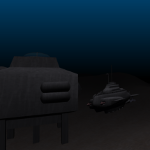
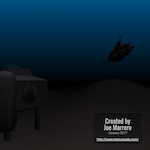
Added web-gfx (WebGL) project.

diff --git a/README.md b/README.md
@@ -1,4 +1,4 @@
-# About Me
+# About myself
 I began experimenting with software on an old IBM PS/2 with an Intel 286 CPU when I was 9 years old.  Then in 1996, at
 only twelve years old, I began to write software using QBasic and Visual Basic.  It was around this time, when I
 discovered my affinity for learning, solving puzzles, and creating computer programs.
@@ -6,31 +6,9 @@ discovered my affinity for learning, solving puzzles, and creating computer prog
 I have a strong background in mathematics and computer science.  My professional career has given me opportunities to work on massive cloud
 web applications, mobile applications, computer graphics software, and AAA titles in the game industry.
 
-# A Few of my Projects
-[![Timezoner](https://user-images.githubusercontent.com/2350387/87860663-42299280-c90d-11ea-9452-5a62e52536e2.png)](https://github.com/manvscode/timezoner)
-[![Sub on the Ocean Floor WebGL](https://user-images.githubusercontent.com/2350387/87860764-1529af80-c90e-11ea-9674-c548f4dc3ac0.png)](https://github.com/manvscode/#todo)
-[![libcollections](https://user-images.githubusercontent.com/2350387/87860689-73a25e00-c90d-11ea-9933-7689f0440747.png)](https://github.com/manvscode/libcollections)
-[![libxtd](https://user-images.githubusercontent.com/2350387/87860705-9896d100-c90d-11ea-932a-c0c096ee4f6c.png)](https://github.com/manvscode/libxtd)
-[![libsimplegl](https://user-images.githubusercontent.com/2350387/87866633-28f70500-c952-11ea-94c9-5fb00a899178.png)](https://github.com/manvscode/libsimplegl)
-[![Blue Scanner](https://user-images.githubusercontent.com/2350387/87860632-efe87180-c90c-11ea-80b8-a86ddfb3b1c8.png)](https://github.com/manvscode/blue-scanner)
-[![libcsearch](https://user-images.githubusercontent.com/2350387/87866658-6eb3cd80-c952-11ea-9f30-850d28c94492.jpg)](https://github.com/manvscode/libcsearch)
-[![libterrain](https://user-images.githubusercontent.com/2350387/87866804-ef26fe00-c953-11ea-9988-cad990f30a06.jpg)](https://github.com/manvscode/libterrain)
-[![libm3d](https://user-images.githubusercontent.com/2350387/87866848-6bb9dc80-c954-11ea-8241-68e162a3032b.png)](https://github.com/manvscode/libm3d)
-[![Escape the Hangman](https://user-images.githubusercontent.com/2350387/87860739-e6abd480-c90d-11ea-95a7-6221f9910bc3.png)](https://github.com/manvscode/hangman)
-[![name.com Dynamic DNS](https://user-images.githubusercontent.com/2350387/87860706-9a609480-c90d-11ea-9758-36d195e1bdee.png)](https://github.com/manvscode/name.com-dns-tools)
-[![Game of Life](https://user-images.githubusercontent.com/2350387/87860752-017e4900-c90e-11ea-90e7-b21557989411.png)](https://github.com/manvscode/game-of-life)
-[![Host This](https://user-images.githubusercontent.com/2350387/87866748-509a9d00-c953-11ea-99ba-a313808a0f91.png)](https://github.com/manvscode/host-this)
-[![obj2js](https://user-images.githubusercontent.com/2350387/87860710-9cc2ee80-c90d-11ea-80c8-cf9a9216d4dc.png)](https://github.com/manvscode/obj2js)
-[![iifym](https://user-images.githubusercontent.com/2350387/87866741-3bbe0980-c953-11ea-87d8-cd008c7d8186.png)](https://github.com/manvscode/iifym)
+My resume is available [here](https://joemarrero.com/resume).
 
-<!--
-[![Timezoner](/projects/timezoner-150x150.png)](https://github.com/manvscode/timezoner)
-[![libcollections](/projects/libcollections-150x150.png)](https://github.com/manvscode/libcollections)
-[![libxtd](/projects/libxtd-150x150.png)](https://github.com/manvscode/libxtd)
-[![Blue Scanner](/projects/blue-scanner-150x150.png)](https://github.com/manvscode/blue-scanner)
-[![Escape the Hangman](/projects/hangman-150x150.png)](https://github.com/manvscode/hangman)
-[![name.com Dynamic DNS](/projects/name.com-dynamic-dns-150x150.png)](https://github.com/manvscode/name.com-dns-tools)
-[![Game of Life](/projects/game-of-life-150x150.png)](https://github.com/manvscode/game-of-life)
-[![obj2js](/projects/obj2js-150x150.png)](https://github.com/manvscode/obj2js)
-[![Sub on the Ocean Floor WebGL](/projects/sub-on-the-ocean-floor-webgl-150x150.png)](https://github.com/manvscode/#todo)
--->
+# A few of my projects
+[![Timezoner](https://user-images.githubusercontent.com/2350387/87860663-42299280-c90d-11ea-9452-5a62e52536e2.png)](https://github.com/manvscode/timezoner)[![Sub on the Ocean Floor (WebGL)](https://user-images.githubusercontent.com/2350387/166626965-54a84d8a-b8d0-4457-ad98-c55572f4ecf0.png)](https://github.com/manvscode/web-gfx)[![libcollections](https://user-images.githubusercontent.com/2350387/87860689-73a25e00-c90d-11ea-9933-7689f0440747.png)](https://github.com/manvscode/libcollections)[![libxtd](https://user-images.githubusercontent.com/2350387/87860705-9896d100-c90d-11ea-932a-c0c096ee4f6c.png)](https://github.com/manvscode/libxtd)[![libsimplegl](https://user-images.githubusercontent.com/2350387/87866633-28f70500-c952-11ea-94c9-5fb00a899178.png)](https://github.com/manvscode/libsimplegl)[![Blue Scanner](https://user-images.githubusercontent.com/2350387/87860632-efe87180-c90c-11ea-80b8-a86ddfb3b1c8.png)](https://github.com/manvscode/blue-scanner)[![libcsearch](https://user-images.githubusercontent.com/2350387/87866658-6eb3cd80-c952-11ea-9f30-850d28c94492.jpg)](https://github.com/manvscode/libcsearch)[![libterrain](https://user-images.githubusercontent.com/2350387/87866804-ef26fe00-c953-11ea-9988-cad990f30a06.jpg)](https://github.com/manvscode/libterrain)[![Sub on the Ocean Floor (C++)](https://user-images.githubusercontent.com/2350387/87860764-1529af80-c90e-11ea-9674-c548f4dc3ac0.png)](https://github.com/manvscode/subontheoceanfloor)[![libm3d](https://user-images.githubusercontent.com/2350387/87866848-6bb9dc80-c954-11ea-8241-68e162a3032b.png)](https://github.com/manvscode/libm3d)[![Escape the Hangman](https://user-images.githubusercontent.com/2350387/87860739-e6abd480-c90d-11ea-95a7-6221f9910bc3.png)](https://github.com/manvscode/hangman)[![name.com Dynamic DNS](https://user-images.githubusercontent.com/2350387/87860706-9a609480-c90d-11ea-9758-36d195e1bdee.png)](https://github.com/manvscode/name.com-dns-tools)[![Game of Life](https://user-images.githubusercontent.com/2350387/87860752-017e4900-c90e-11ea-90e7-b21557989411.png)](https://github.com/manvscode/game-of-life)[![Host This](https://user-images.githubusercontent.com/2350387/87866748-509a9d00-c953-11ea-99ba-a313808a0f91.png)](https://github.com/manvscode/host-this)[![obj2js](https://user-images.githubusercontent.com/2350387/87860710-9cc2ee80-c90d-11ea-80c8-cf9a9216d4dc.png)](https://github.com/manvscode/obj2js)[![iifym](https://user-images.githubusercontent.com/2350387/87866741-3bbe0980-c953-11ea-87d8-cd008c7d8186.png)](https://github.com/manvscode/iifym)
+
+More projects are detailed [here](https://joemarrero.com/projects).
